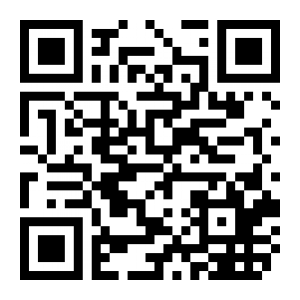
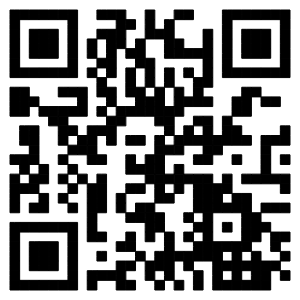
readme

diff --git a/readme.md b/readme.md
@@ -4,7 +4,7 @@
 ##Demo
 建议使用ios/android设备浏览器访问
 
-<http://www.ifrans.cn/demo/mDialog/1.0beta/demo.html>
+<http://www.ifrans.cn/demo/mDialog/demo.html>
 
 可以通过扫描一下二维码来访问：
 
